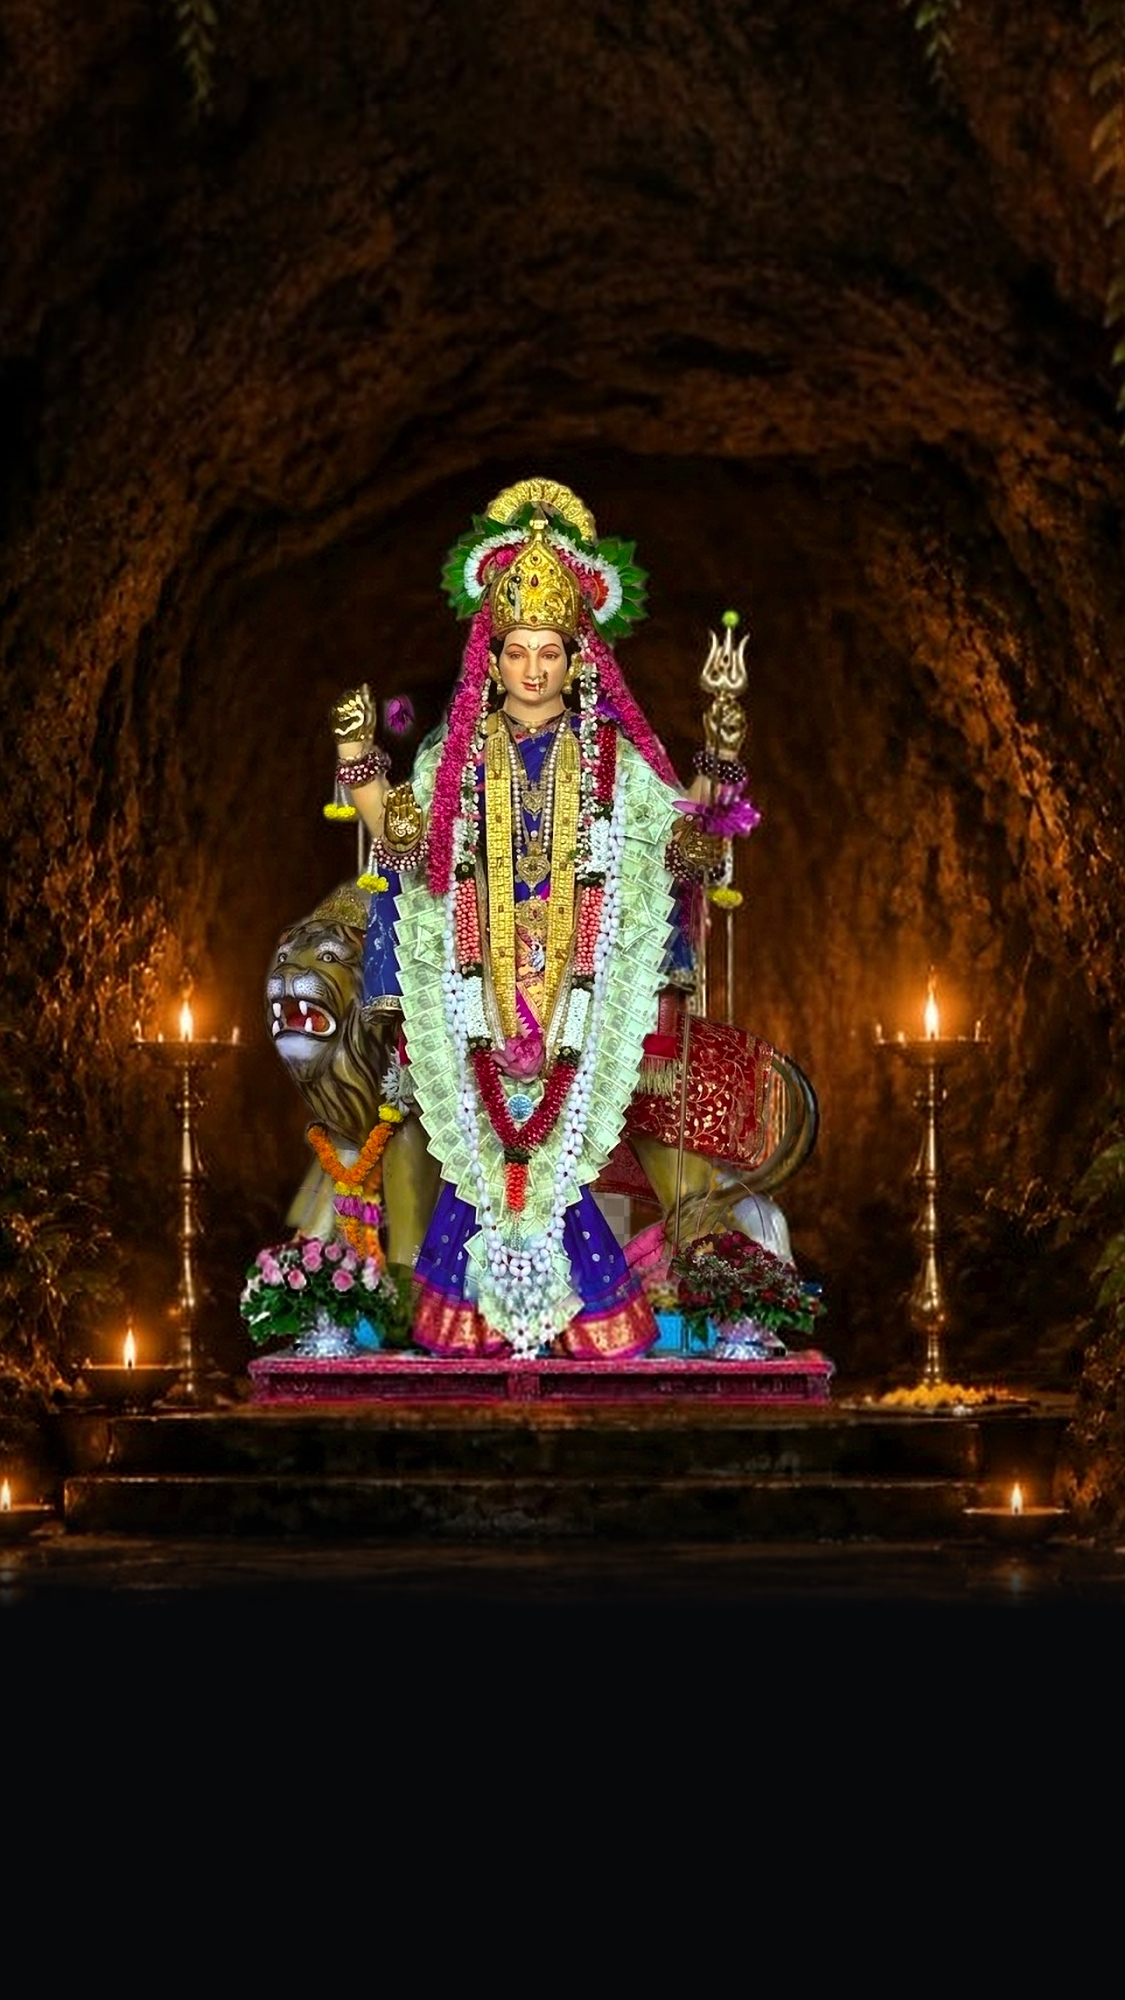
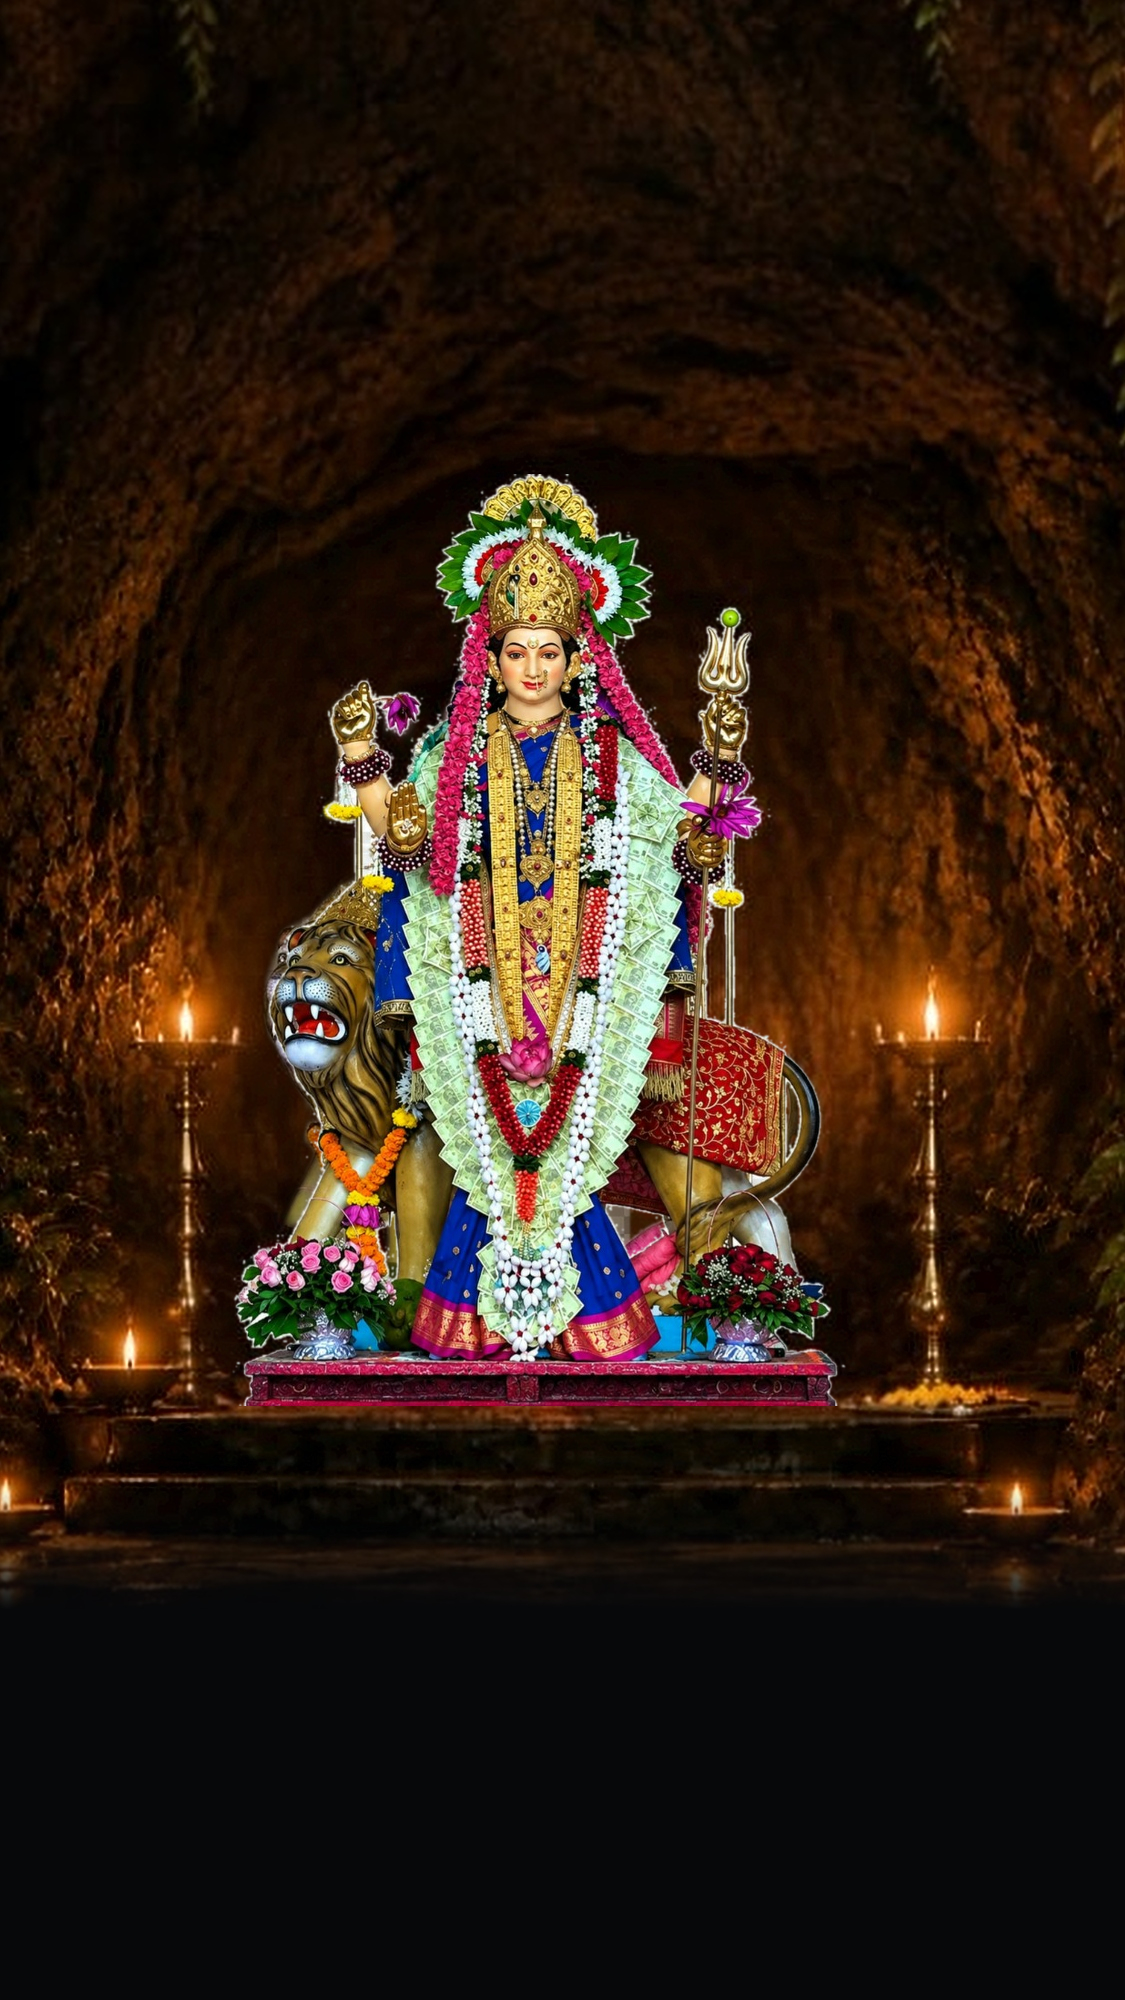
trying by overlaying new pic

Changed region(s): [[0.2178, 0.217, 0.7467, 0.713]]

diff --git a/scratch/find_alignment.py b/scratch/find_alignment.py
@@ -1,0 +1,65 @@
+import cv2
+import numpy as np
+
+hero = cv2.imread('public/images/hero_mobile.jpg')
+idol = cv2.imread('public/images/devi_hd_clean.png', cv2.IMREAD_UNCHANGED)
+
+hero_gray = cv2.cvtColor(hero, cv2.COLOR_BGR2GRAY)
+idol_bgr = idol[:, :, :3]
+idol_alpha = idol[:, :, 3]
+
+# Idol face / crown region for robust template matching
+# Let's crop a high-contrast part of the idol, like the face & crown
+# In idol (1024h x 824w):
+# Crown & Face is roughly y: 150..350, x: 350..500
+face_template = idol_bgr[150:350, 350:500]
+face_gray = cv2.cvtColor(face_template, cv2.COLOR_BGR2GRAY)
+
+best_val = -1
+best_scale = 1.0
+best_loc = (0, 0)
+
+# Search scales around 0.8 to 1.3
+for s in np.linspace(0.8, 1.3, 51):
+    th = int(face_gray.shape[0] * s)
+    tw = int(face_gray.shape[1] * s)
+    resized_template = cv2.resize(face_gray, (tw, th))
+    
+    # Search in hero roughly y: 300..900, x: 200..900
+    search_roi = hero_gray[300:1000, 200:900]
+    res = cv2.matchTemplate(search_roi, resized_template, cv2.TM_CCOEFF_NORMED)
+    min_val, max_val, min_loc, max_loc = cv2.minMaxLoc(res)
+    
+    if max_val > best_val:
+        best_val = max_val
+        best_scale = s
+        best_loc = (max_loc[0] + 200, max_loc[1] + 300)
+
+print(f"Best match val: {best_val:.4f} at scale: {best_scale:.4f}")
+print(f"Face template top-left in hero: {best_loc}")
+
+# Compute the top-left of the entire idol at best_scale:
+# face template in idol was at (350, 150)
+idol_w_scaled = int(round(idol.shape[1] * best_scale))
+idol_h_scaled = int(round(idol.shape[0] * best_scale))
+
+idol_x = int(round(best_loc[0] - 350 * best_scale))
+idol_y = int(round(best_loc[1] - 150 * best_scale))
+
+print(f"Idol scaled size: {idol_w_scaled} x {idol_h_scaled}")
+print(f"Idol top-left in hero (1125x2000): x={idol_x}, y={idol_y}")
+
+# Let's verify by overlaying and saving a test image
+resized_idol = cv2.resize(idol, (idol_w_scaled, idol_h_scaled), interpolation=cv2.INTER_LANCZOS4)
+alpha = (resized_idol[:, :, 3] / 255.0)[:, :, np.newaxis]
+rgb = resized_idol[:, :, :3]
+
+test_composite = hero.copy()
+roi = test_composite[idol_y:idol_y+idol_h_scaled, idol_x:idol_x+idol_w_scaled]
+
+# Alpha blend
+blended = (rgb * alpha + roi * (1.0 - alpha)).astype(np.uint8)
+test_composite[idol_y:idol_y+idol_h_scaled, idol_x:idol_x+idol_w_scaled] = blended
+
+cv2.imwrite('scratch/test_overlay_aligned.jpg', test_composite)
+print("Saved scratch/test_overlay_aligned.jpg")

diff --git a/scratch/save_perfect_hero.py b/scratch/save_perfect_hero.py
@@ -1,0 +1,35 @@
+import cv2
+import numpy as np
+
+# Load original hero_mobile and the transparent clean idol
+hero = cv2.imread('public/images/hero_mobile.jpg')
+idol = cv2.imread('public/images/devi_hd_clean.png', cv2.IMREAD_UNCHANGED)
+
+idol_w_scaled = 750
+idol_h_scaled = 932
+idol_x = 146
+idol_y = 474
+
+resized_idol = cv2.resize(idol, (idol_w_scaled, idol_h_scaled), interpolation=cv2.INTER_LANCZOS4)
+alpha = (resized_idol[:, :, 3] / 255.0)[:, :, np.newaxis]
+rgb = resized_idol[:, :, :3].astype(np.float32)
+
+# Slight Gaussian feather on alpha edge (1px blur) for perfect antialiasing against the dark cave
+alpha_feather = cv2.GaussianBlur(resized_idol[:, :, 3].astype(np.float32), (3, 3), 0) / 255.0
+alpha_feather = alpha_feather[:, :, np.newaxis]
+
+roi = hero[idol_y:idol_y+idol_h_scaled, idol_x:idol_x+idol_w_scaled].astype(np.float32)
+
+# Blend
+blended = rgb * alpha_feather + roi * (1.0 - alpha_feather)
+
+final_hero = hero.copy()
+final_hero[idol_y:idol_y+idol_h_scaled, idol_x:idol_x+idol_w_scaled] = np.clip(blended, 0, 255).astype(np.uint8)
+
+# Save with maximum quality (100) and 4:4:4 chroma subsampling (no compression loss)
+cv2.imwrite('public/images/hero_mobile.jpg', final_hero, [cv2.IMWRITE_JPEG_QUALITY, 100, cv2.IMWRITE_JPEG_SAMPLING_FACTOR, cv2.IMWRITE_JPEG_SAMPLING_FACTOR_444])
+print("Successfully generated and saved public/images/hero_mobile.jpg with 100% quality!")
+
+# Also save transparent version in public/images for any direct asset use
+cv2.imwrite('public/images/devi_mobile_hd.png', resized_idol)
+print("Saved public/images/devi_mobile_hd.png")
